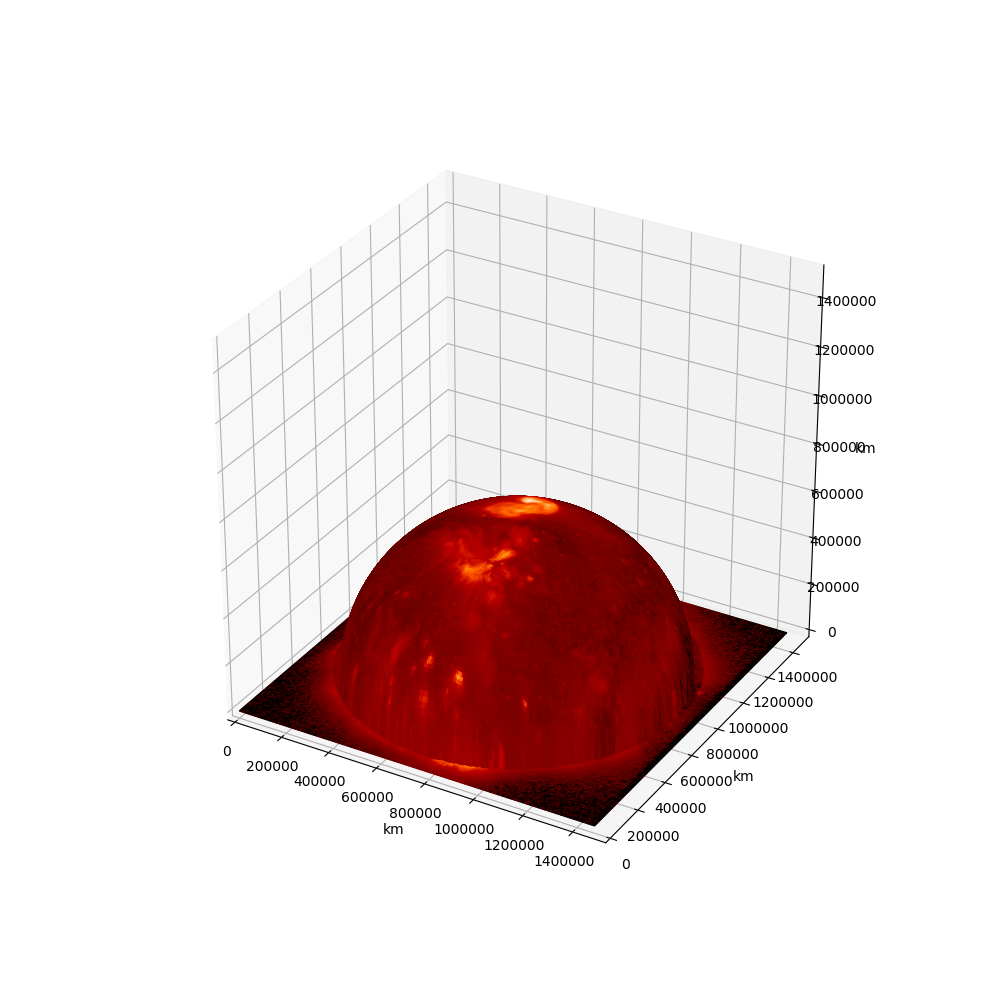
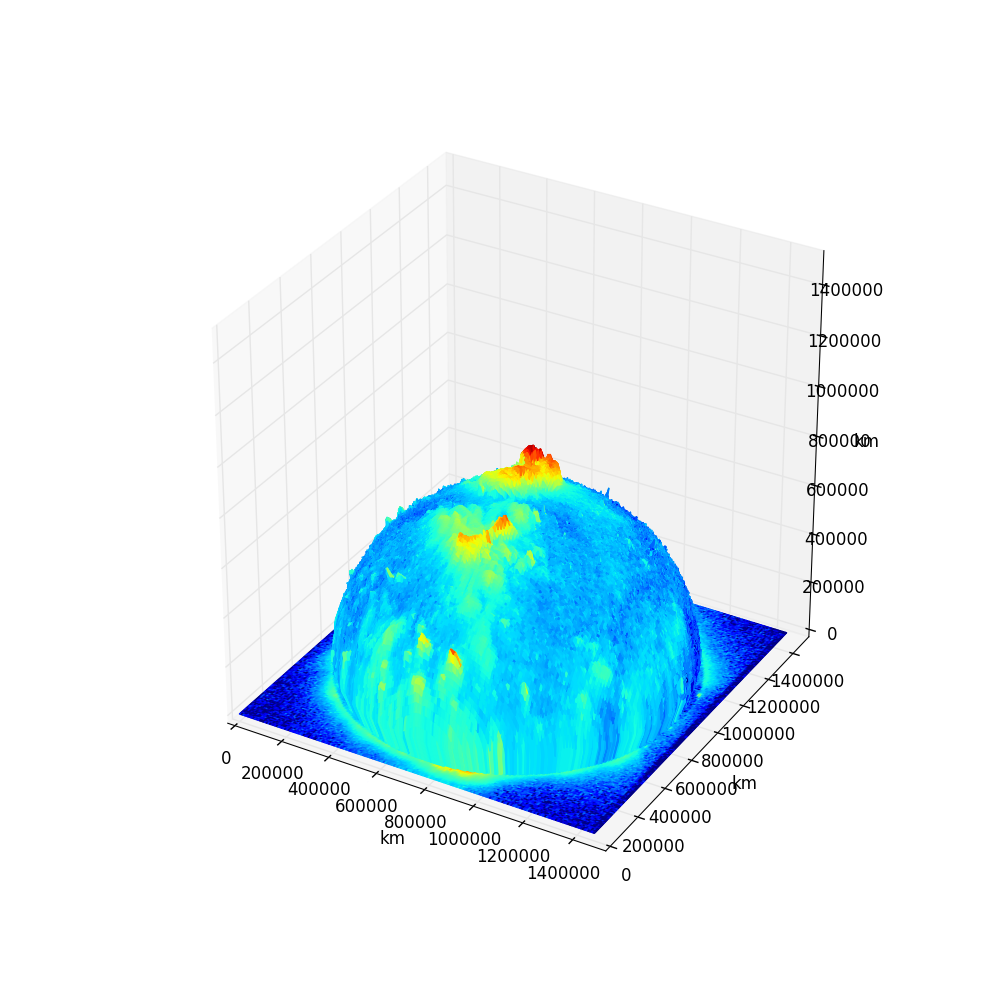
working 3d protrusions

diff --git a/3Dplotting/3Dplot.py b/3Dplotting/3Dplot.py
@@ -25,6 +25,8 @@ NAXIS2 = header[0].__getitem__('NAXIS2')
 
 #image = data[0][0] #gets the data from the jp2 file, however this format does not work 
 	#with the the plot surface, instead it is converted to a png in an oustide program
+
+#image data is already normalized to [0.0, 1.0]
 image = read_png('2007_02_02__12_02_58_608__HINODE_XRT_COMP.png')
 
 #pixel dimensions of the image
@@ -45,7 +47,7 @@ r_km = r * km_per_pixel #in km
 #x and y are arrays shaped the size of the pixel dimensions respectively
 	#they go from 0 to the dimension in km at intervals of the dimension in km/dimen in px
 	#This way each point lines up exactly to a pixel
-x, y = np.mgrid[0:xDimen_km:(xDimen_km/xDimen), 0:yDimen_km:(yDimen_km/yDimen)]
+x_init, y_init = np.mgrid[0:xDimen_km:(xDimen_km/xDimen), 0:yDimen_km:(yDimen_km/yDimen)]
 
 #This for loop uses the formula of a sphere (x**2 + y**2 + z**2 = r**2) in order to define
 	#z points that are 0 outside the radius and on the hemisphere inside the radius
@@ -64,7 +66,7 @@ for xpoint in range(int(xDimen)):
 	zlist.append(xrow)
 
 #plot surface requires an array
-z = np.asarray(zlist)
+z_init = np.asarray(zlist)
 
 fig = plt.figure(figsize=(10.,10.))
 
@@ -91,6 +93,43 @@ ax2.set_xlabel('km')
 ax2.set_ylabel('km')
 ax2.set_zlabel('km')
 
+#Bright features stand out
+scale_factor = 0.30 * r_km
+
+add = []
+
+for xpoint in range(xDimen):
+	row = []
+	for ypoint in range(xDimen):
+		 if(np.sqrt((xpoint * km_per_pixel - (xDimen_km/2.))**2. + (ypoint * km_per_pixel 
+		 - (yDimen_km/2.))**2.) >= r_km):
+		 	row.append(0)
+		 else:
+			row.append(scale_factor * image[xpoint][ypoint])
+	add.append(row)
+
+x_list_final = []
+y_list_final = []
+z_list_final = []
+
+for xpoint in range(xDimen):
+	xrow = []
+	yrow = []
+	zrow = []
+	for ypoint in range(yDimen):
+		xrow.append(x_init[xpoint][ypoint] + ((x_init[xpoint][ypoint] - (xDimen_km / 2))
+		 * (add[xpoint][ypoint] / xDimen_km)))
+		yrow.append(y_init[xpoint][ypoint] + ((y_init[xpoint][ypoint] - (yDimen_km / 2))
+		 * (add[xpoint][ypoint] / yDimen_km)))
+		zrow.append(z_init[xpoint][ypoint] + add[xpoint][ypoint])
+	x_list_final.append(xrow)
+	y_list_final.append(yrow)
+	z_list_final.append(zrow)
+
+x = np.asarray(x_list_final)
+y = np.asarray(y_list_final)
+z = np.asarray(z_list_final)
+
 #rstride and cstride determine how frequently values are taken from the arrays and 
 	#plotted, lower stride yields higher resolution
 #norm is the instance of the Normalize class that is used to map the inputted values to
@@ -102,8 +141,8 @@ ax2.set_zlabel('km')
 #antialiased determines whether or not the figure is drawn with antialiasing
 #vmin and vmax determine the range of the colormap: they're not necessary
 
-ax2.plot_surface(x, y, z, rstride=10, cstride=10, antialiased=True, cmap=plt.cm.gist_heat,
-facecolors=plt.cm.gist_heat(image))#, vmin=0., vmax=3000.)#, norm=norm)
-#plt.cm.jet uses a different color map with a full spectrum
+ax2.plot_surface(x, y, z, rstride=10, cstride=10, antialiased=True, cmap=plt.cm.jet,
+facecolors=plt.cm.jet(image))#, vmin=0., vmax=3000.)#, norm=norm)
+#plt.cm.gist_heat uses a different color map with a heat spectrum
 plt.show()
-#plt.savefig('3d.png')
+plt.savefig('3d.png')
